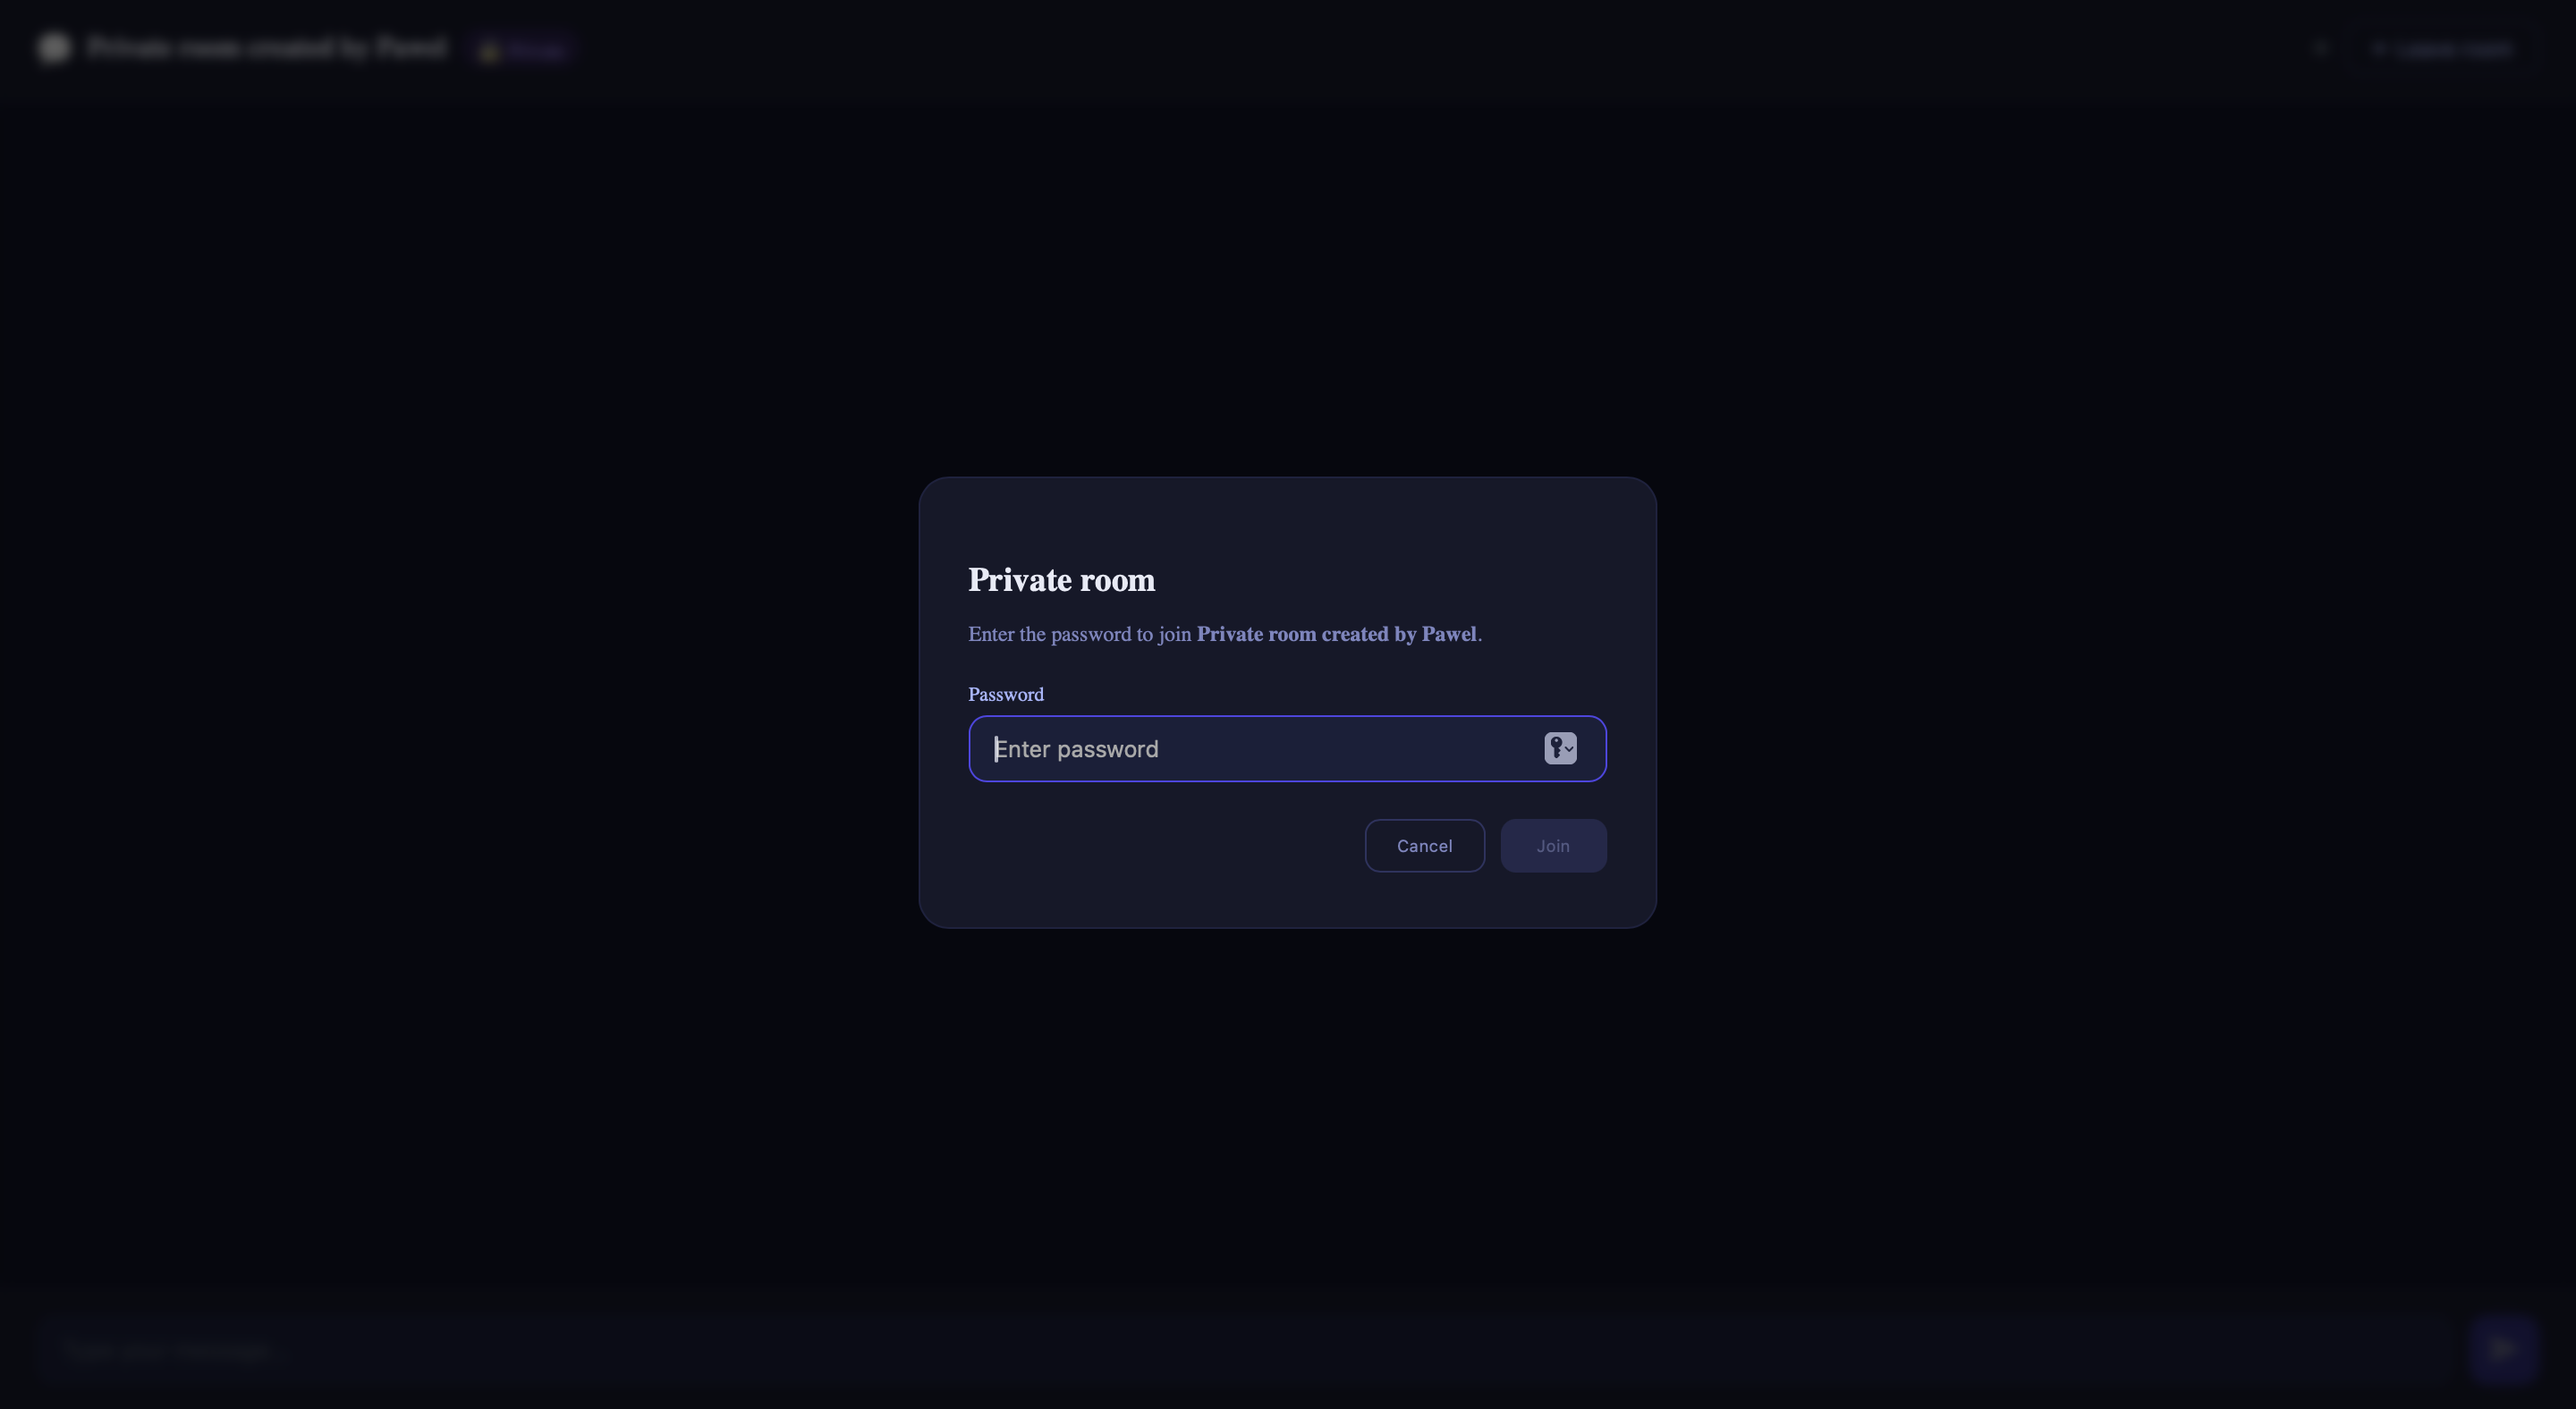
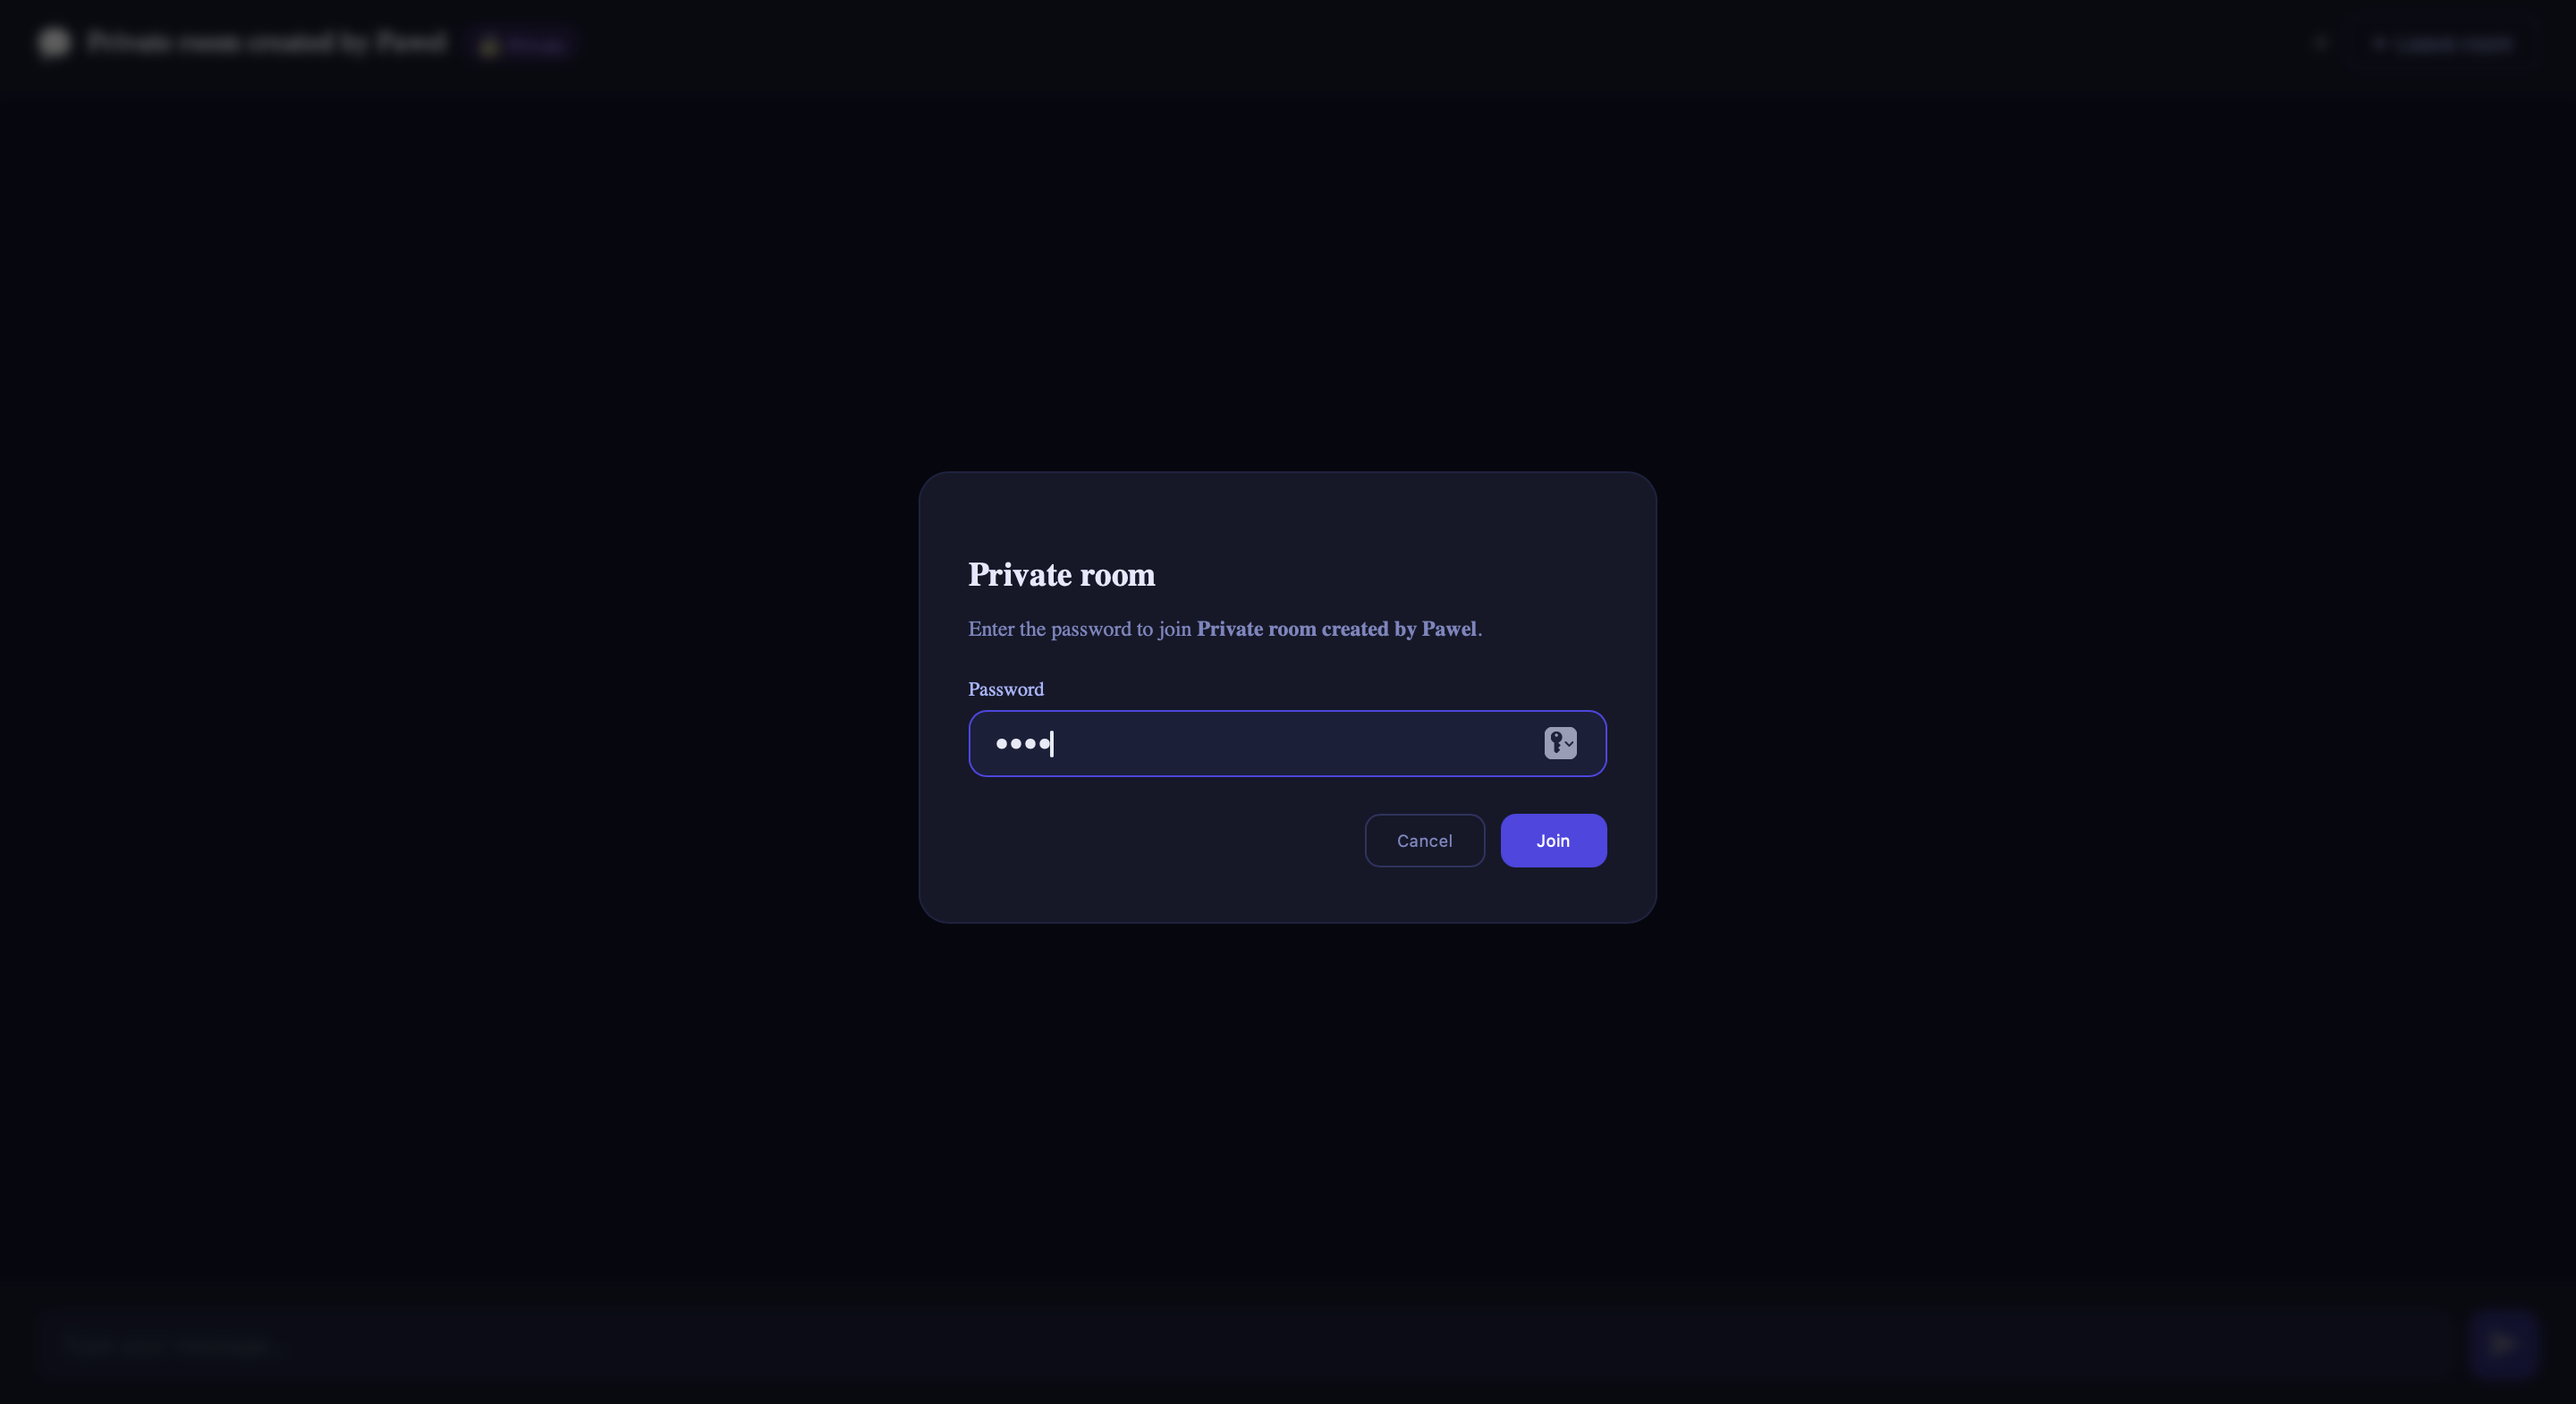
removed unused screenshots and fixed private room modal title color

Changed region(s): [[0.375, 0.4057, 0.625, 0.6242]]

diff --git a/src/app/feature/components/room-chat/room-chat.component.scss b/src/app/feature/components/room-chat/room-chat.component.scss
@@ -160,7 +160,7 @@
       font-size: 22px;
       font-weight: 700;
       margin-bottom: 6px;
-      color: #e8eaf6;
+      color: var(--text-main);
     }
 
     .modal-subtitle {
